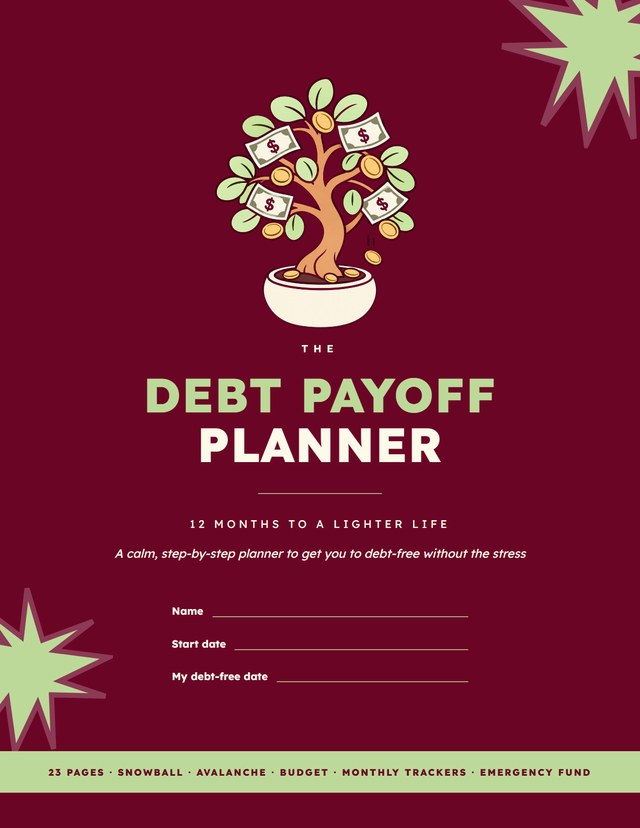
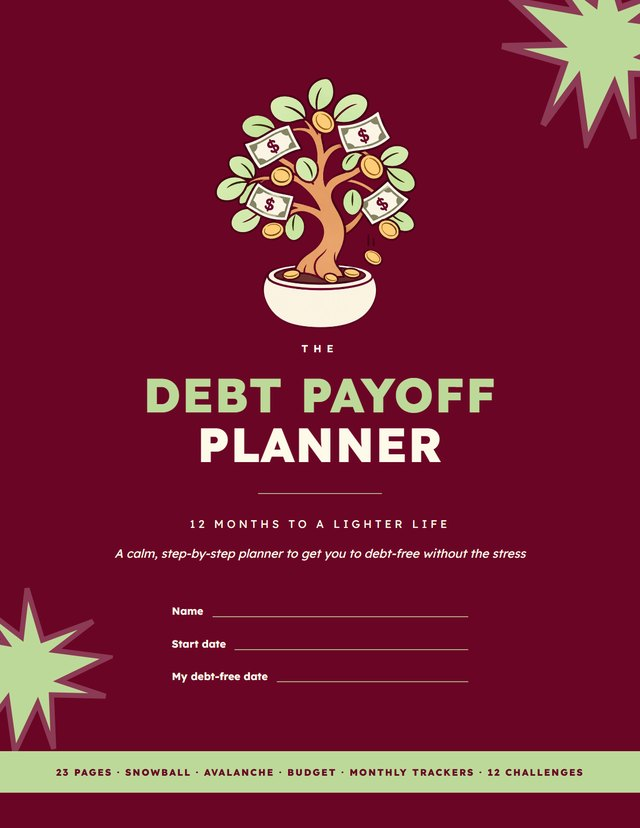
New texts: wheel report and PDF, planner previews, Q&A accordion

Changed region(s): [[0.0625, 0.9058, 0.9375, 0.936]]

diff --git a/js/wheel-report.js b/js/wheel-report.js
@@ -9,26 +9,26 @@
 
   var D = {
     en: {
-      health: {means: "Energy, sleep, movement and how you eat. When this area is low, every other area gets harder.", actions: ["Go to bed at the same time for 7 nights.", "Add a 20-minute walk three days this week.", "Plan tomorrow's meals tonight."], low: "Start with sleep: it is the cheapest fix with the biggest effect.", mid: "Pick one habit (water, steps, bedtime) and track it daily.", high: "Protect your routine on busy weeks; everything else rests on it."},
-      career: {means: "Your work, growth and sense of progress. A low score usually means feeling stuck, not hating the job.", actions: ["Describe your work at 10/10 in one paragraph.", "Pick one skill to grow this quarter.", "Talk to someone about your next step."], low: "Separate what you can change now from what needs a bigger move.", mid: "Set one 90-day goal with a clear finish line.", high: "Share what you know: mentoring keeps this area strong."},
-      finances: {means: "How in control you feel of money: debts, savings, spending. A low score is usually about uncertainty, not income.", actions: ["List every debt: balance, rate, minimum.", "Write a simple monthly budget.", "Start a tiny emergency fund, even $5 a week."], low: "Clarity first: seeing your exact numbers lowers stress on its own.", mid: "Pick one payoff method and automate one payment.", high: "Grow your cushion to 3 to 6 months of expenses and set a new goal."},
-      hobbies: {means: "The things you do just because you love them. They refill the energy the other areas use up.", actions: ["List 5 things you loved doing as a kid.", "Block one hour this week for one of them.", "Try one free class, video or local group."], low: "Treat fun as an appointment, not a reward for later.", mid: "Keep one hobby going weekly so it becomes a habit.", high: "Share it: a hobby with friends counts twice."},
-      growth: {means: "Learning, confidence and becoming who you want to be.", actions: ["Give a book or course 15 minutes a day.", "Write down 3 things you did well this week.", "Pick one small fear and do it once."], low: "Small daily progress beats big plans you never start.", mid: "Track one learning habit for 30 days.", high: "Set a stretch goal that scares you a little."},
-      relationships: {means: "Your partner and friends: how connected and supported you feel.", actions: ["Message two people you miss today.", "Plan one evening together with no phones.", "Ask someone close how you can do better."], low: "Reach out first: most people are waiting for someone else to.", mid: "Put regular time with your people in the calendar.", high: "Be the one who brings people together."},
-      recreation: {means: "Rest and recovery: time off, trips, real breaks.", actions: ["Keep one fully free evening this week.", "Plan a day trip or small treat this month.", "Turn off work notifications after a set hour."], low: "Rest is not a reward for finishing everything: schedule it first.", mid: "Plan your next real break now, even a short one.", high: "Keep your boundaries when life speeds up."},
-      spirituality: {means: "Inner calm, meaning and values, whatever that means for you.", actions: ["Take 5 quiet minutes each morning.", "Write your top 3 values and test one choice.", "Spend time in nature this week."], low: "Start with five quiet minutes a day: consistency beats length.", mid: "Link a daily practice to something you already do, like morning coffee.", high: "Use this calm as an anchor for the shakier areas."},
-      family: {means: "Your relationships with parents, siblings and children.", actions: ["Plan one shared meal or call this week.", "Start a shared family calendar.", "Ask what would make living together nicer."], low: "One small ritual, like a Sunday call, rebuilds closeness.", mid: "Plan family time ahead instead of fitting it in.", high: "Share the load so home stays good for everyone."}
+      health: {means: "Energy, sleep, movement and food. When this area dips, every other area takes more effort.", actions: ["Get up at the same time for 7 days, weekends too.", "Get 10 minutes of daylight within an hour of waking.", "Walk for 10 minutes after your biggest meal."], low: "Fix your wake-up time first, not your bedtime: a steady morning pulls your evenings into place in about a week.", mid: "Keep a minimum version for bad days: 10 minutes of walking still counts and keeps the habit alive.", high: "Book your workouts like meetings before a busy week: a slot in the calendar outlasts good intentions."},
+      career: {means: "Your work, income and growth. A low score usually means feeling stuck, not a bad job: you have lost sight of where you are growing.", actions: ["List the skills from 3 job ads you would love to land.", "For a week, mark each task: gives energy or drains it.", "Update your CV, even if you are not job hunting."], low: "Tell tiredness from a dead end: if work feels good again after a holiday, you need rest, not a new job.", mid: "Pick one skill from those job ads and one 90-day goal you can show: a project, a course, a new line on your CV.", high: "Write results down as they happen: in six months, when you ask for a raise, you will not remember them."},
+      finances: {means: "How in control you feel of money. A low score is often about avoiding the numbers, not about income: a sum you have not looked at feels bigger than the real one.", actions: ["List every debt: balance, rate, minimum.", "Track one week of spending without changing anything.", "Set an automatic $10 transfer to savings on payday."], low: "Name the number: worry without a figure always feels bigger than it is.", mid: "Use the 48-hour rule: wait two days before any non-essential buy over $50. If you still want it, it is a real want.", high: "Give your money its next job: a cushion of 3 to 6 months of expenses, then one long-term goal."},
+      hobbies: {means: "The things you do just because you enjoy them. They refill the energy that work and duties use up.", actions: ["List 5 things you loved doing at age 10.", "Book one hour this week for one of them.", "Play a video tutorial for one and follow along."], low: "Treat fun as an appointment, not a reward for later: 'when everything is done' never comes.", mid: "Join a class or a group: a hobby shared with people survives busy weeks much better.", high: "Give it a small finish line: a finished piece, a show, a race. A project keeps a hobby exciting."},
+      growth: {means: "Learning, confidence and becoming who you want to be.", actions: ["Read 10 pages a day: that is about 12 books a year.", "Pick one skill and take a free first lesson this week.", "Do one thing this week that scares you a little."], low: "Start so small you cannot say no: one page, one lesson, two minutes. Showing up matters more than the amount.", mid: "Learn out loud: once a week, tell someone what you learned. Explaining it is what makes it stick.", high: "Pick a stretch goal and find someone who is already there to ask for advice."},
+      relationships: {means: "Your partner and friends: how connected and supported you feel.", actions: ["Text two people you miss: 'Thought of you today.'", "Plan one evening together, phones in another room.", "Ask: 'What would make your week easier?'"], low: "Reach out first: studies show people value a simple 'thinking of you' message far more than the sender expects.", mid: "Notice small bids for attention: a 'look at this', a sigh, a question. Turning toward them keeps people close more than big gestures do.", high: "Be the one who gathers people: one simple dinner or walk a month keeps a circle alive."},
+      recreation: {means: "Rest and recovery: evenings off, weekends, trips, real breaks.", actions: ["Keep one evening this week completely free.", "Plan a small trip: the waiting itself lifts your mood.", "End work by listing tomorrow's top 3 tasks."], low: "Put rest in the calendar first and fit tasks around it: rest is what makes the work possible.", mid: "Real rest is a change, not just a stop: if you sit all day, move; if you talk all day, be quiet.", high: "Guard your boundaries when life speeds up: that is exactly when rest gets cut first."},
+      spirituality: {means: "Inner calm, meaning and values, whatever that means for you.", actions: ["Drink your morning coffee in quiet, with no phone.", "Name your top 3 values and test one choice on them.", "Take a 15-minute walk looking for something beautiful."], low: "Five quiet minutes a day beat one long retreat a year: it is the regularity that calms you.", mid: "Before bed, write three good things from the day and why they happened. A week is enough to feel the difference.", high: "Use this calm as an anchor: before a hard decision, ask what the calm version of you would do."},
+      family: {means: "Your relationships with parents, siblings and children.", actions: ["Have one meal together, phones in a basket.", "Play a board game together one evening.", "Call your parents just to chat, no reason needed."], low: "One small ritual, like a Sunday call, rebuilds closeness faster than one big gesture.", mid: "Try a 15-minute family meeting once a week: plans, one problem, one thank-you from each person.", high: "Share the invisible work too: remembering and planning are tasks, not just the doing."}
     },
     ru: {
-      health: {means: "Энергия, сон, движение и питание. Когда здесь проседает, всё остальное даётся тяжелее.", actions: ["Ложитесь спать в одно время 7 дней подряд.", "Гуляйте по 20 минут три дня на этой неделе.", "Вечером набросайте меню на завтра."], low: "Начните со сна: это самый простой шаг с самым большим эффектом.", mid: "Выберите одну привычку (вода, шаги, отбой) и отмечайте её каждый день.", high: "Берегите режим в загруженные недели: на нём держится всё остальное."},
-      career: {means: "Работа, рост и ощущение движения вперёд. Низкая оценка чаще говорит о чувстве застоя, а не о самой работе.", actions: ["Опишите одним абзацем работу на 10 из 10.", "Выберите один навык на этот квартал.", "Обсудите свой следующий шаг с наставником."], low: "Разделите, что можно изменить уже сейчас, а что требует большого шага.", mid: "Поставьте одну цель на 90 дней с понятным финишем.", high: "Делитесь опытом: наставничество держит эту сферу сильной."},
-      finances: {means: "Насколько вы управляете деньгами: долги, накопления, траты. Низкая оценка чаще про неопределённость, чем про маленький доход.", actions: ["Выпишите долги: остаток, ставку, платёж.", "Составьте простой бюджет на месяц.", "Отложите на подушку хотя бы 500 руб. в неделю."], low: "Сначала ясность: когда видишь точные цифры, тревоги становится меньше.", mid: "Выберите метод погашения и настройте автоплатёж.", high: "Доведите подушку до 3–6 месяцев расходов и поставьте новую цель."},
-      hobbies: {means: "То, что вы делаете просто ради удовольствия. Хобби восполняет энергию, которую забирают другие сферы.", actions: ["Вспомните 5 любимых занятий из детства.", "Выделите на одно из них час на этой неделе.", "Попробуйте бесплатный урок или встречу."], low: "Относитесь к радости как к встрече в календаре, а не к награде «потом».", mid: "Оставьте одно хобби раз в неделю, чтобы оно стало привычкой.", high: "Делитесь им: хобби с друзьями радует вдвойне."},
-      growth: {means: "Обучение, уверенность в себе и движение к тому, кем вы хотите быть.", actions: ["Уделяйте книге или курсу 15 минут в день.", "Запишите 3 вещи, которые получились за неделю.", "Сделайте один раз то, чего слегка боитесь."], low: "Маленький шаг каждый день лучше больших планов, которые не начинаются.", mid: "Отмечайте одну привычку обучения 30 дней подряд.", high: "Поставьте цель на вырост, от которой немного страшно."},
-      relationships: {means: "Партнёр и друзья: насколько вы чувствуете близость и поддержку.", actions: ["Напишите двум людям, по которым скучаете.", "Запланируйте вечер вместе без телефонов.", "Спросите близкого, что можно делать лучше."], low: "Сделайте первый шаг: многие тоже ждут, что напишут им.", mid: "Внесите встречи с близкими в календарь регулярно.", high: "Будьте тем, кто собирает людей вместе."},
-      recreation: {means: "Отдых и восстановление: выходные, поездки, настоящие перерывы.", actions: ["Выделите один свободный вечер на неделе.", "Запланируйте поездку на день или радость.", "Отключайте рабочие уведомления вечером."], low: "Отдых не награда за то, что всё сделано: ставьте его в план первым.", mid: "Запланируйте следующий настоящий отдых уже сейчас, пусть даже короткий.", high: "Сохраняйте свои границы, даже когда жизнь ускоряется."},
-      spirituality: {means: "Внутреннее спокойствие, смысл и ценности, что бы это ни значило для вас.", actions: ["Каждое утро 5 минут тишины.", "Запишите 3 главные ценности и сверьте решение.", "Проведите время на природе на этой неделе."], low: "Начните с пяти минут тишины в день: важнее регулярность, чем длительность.", mid: "Привяжите практику к тому, что вы и так делаете, например к утреннему кофе.", high: "Опирайтесь на это спокойствие там, где пока шатко."},
-      family: {means: "Отношения с родителями, братьями, сёстрами и детьми.", actions: ["Запланируйте общий ужин или звонок.", "Заведите общий семейный календарь.", "Спросите родных, как сделать жизнь вместе приятнее."], low: "Один маленький ритуал, например звонок по воскресеньям, возвращает близость.", mid: "Планируйте семейное время заранее, а не по остаточному принципу.", high: "Делите нагрузку, чтобы дома было хорошо всем."}
+      health: {means: "Энергия, сон, движение и питание. Когда здесь проседает, всё остальное даётся тяжелее.", actions: ["Вставайте в одно время 7 дней, в выходные тоже.", "10 минут дневного света в первый час после подъёма.", "Гуляйте 10 минут после самой плотной еды за день."], low: "Начните со времени подъёма, а не отбоя: ровное утро само подтянет вечер примерно за неделю.", mid: "Заведите «минимальную версию» на плохие дни: 10 минут ходьбы тоже засчитываются и сохраняют привычку.", high: "Перед загруженной неделей ставьте тренировки в календарь, как встречи: так они держатся лучше, чем на одном желании."},
+      career: {means: "Работа, доход и рост. Низкая оценка чаще значит застой, а не плохую работу: вы перестали видеть, куда растёте.", actions: ["Выпишите навыки из 3 вакансий, которые вам нравятся.", "Неделю отмечайте задачи: заряжает или выжимает.", "Обновите резюме, даже если не ищете работу."], low: "Отличите усталость от тупика: если после отпуска работа снова в радость, нужен отдых, а не новая работа.", mid: "Возьмите один навык из тех вакансий и цель на 90 дней, которую можно показать: проект, курс, новая строка в резюме.", high: "Записывайте результаты сразу: через полгода, когда пойдёте просить повышение, вы их уже не вспомните."},
+      finances: {means: "Насколько вы управляете деньгами. Низкая оценка чаще про то, что страшно смотреть на цифры, а не про доход: сумма, которую вы не видели, кажется больше настоящей.", actions: ["Выпишите долги: остаток, ставку, платёж.", "Неделю записывайте траты, ничего не меняя.", "Автоперевод 500 руб. в копилку в день зарплаты."], low: "Назовите сумму: тревога без цифры всегда кажется больше, чем она есть.", mid: "Правило 48 часов: любую необязательную покупку дороже 3 000 руб. отложите на два дня. Если желание осталось, оно настоящее.", high: "Дайте деньгам следующую задачу: подушка на 3–6 месяцев расходов, потом одна большая цель."},
+      hobbies: {means: "То, что вы делаете просто ради удовольствия. Хобби восполняет энергию, которую забирают работа и обязанности.", actions: ["Вспомните 5 любимых занятий из детства.", "Выделите час на одно из них на этой неделе.", "Включите видеоурок по одному из них и повторяйте."], low: "Относитесь к радости как к встрече в календаре: «когда всё сделаю» не наступает никогда.", mid: "Найдите курс или группу: хобби с людьми гораздо лучше переживает загруженные недели.", high: "Дайте хобби маленький финиш: законченная работа, выступление, забег. Проект держит интерес."},
+      growth: {means: "Обучение, уверенность в себе и движение к тому, кем вы хотите быть.", actions: ["Читайте 10 страниц в день: это около 12 книг в год.", "Выберите один навык и пройдите первый бесплатный урок.", "Сделайте одно дело, от которого немного страшно."], low: "Начните так мало, что невозможно отказаться: одна страница, один урок, две минуты. Важнее прийти, чем сколько сделать.", mid: "Учитесь вслух: раз в неделю рассказывайте кому-то, что узнали. Объясняя, вы запоминаете.", high: "Поставьте цель на вырост и найдите человека, который уже там, чтобы спросить совета."},
+      relationships: {means: "Партнёр и друзья: насколько вы чувствуете близость и поддержку.", actions: ["Напишите двум людям: «Вспоминаю тебя, как ты?»", "Вечер вдвоём, телефоны в другой комнате.", "Спросите: «Что сделает твою неделю легче?»"], low: "Сделайте первый шаг: исследования показывают, что простое «думаю о тебе» радует человека намного сильнее, чем ожидает тот, кто пишет.", mid: "Замечайте маленькие «заявки» на внимание: «смотри!», вздох, вопрос. Ответ на них сближает сильнее больших жестов.", high: "Будьте тем, кто собирает людей: простой ужин или прогулка раз в месяц сохраняют круг."},
+      recreation: {means: "Отдых и восстановление: свободные вечера, выходные, поездки, настоящие перерывы.", actions: ["Оставьте один вечер на неделе полностью свободным.", "Запланируйте поездку: само ожидание радует.", "В конце дня запишите 3 дела на завтра — и всё."], low: "Ставьте отдых в план первым, а дела вокруг него: именно отдых делает работу возможной.", mid: "Настоящий отдых — это смена, а не остановка: сидели весь день — двигайтесь, говорили весь день — помолчите.", high: "Берегите границы, когда жизнь ускоряется: именно тогда отдых урезают первым."},
+      spirituality: {means: "Внутреннее спокойствие, смысл и ценности, что бы это ни значило для вас.", actions: ["Пейте утренний кофе в тишине, без телефона.", "Назовите 3 главные ценности и сверьте с ними решение.", "Прогулка 15 минут: ищите вокруг что-то красивое."], low: "Пять минут тишины каждый день лучше одного ретрита в год: успокаивает именно регулярность.", mid: "Перед сном запишите три хорошие вещи за день и почему они случились. Недели хватит, чтобы заметить разницу.", high: "Используйте это спокойствие как опору: перед трудным решением спросите себя, что сделала бы спокойная версия вас."},
+      family: {means: "Отношения с родителями, братьями, сёстрами и детьми.", actions: ["Общий ужин, телефоны в корзинке.", "Сыграйте всей семьёй в настольную игру вечером.", "Позвоните родителям просто так, без повода."], low: "Один маленький ритуал, например звонок по воскресеньям, возвращает близость быстрее большого жеста.", mid: "Попробуйте семейную встречу раз в неделю на 15 минут: планы, одна проблема, одно «спасибо» от каждого.", high: "Делите и невидимую работу: помнить и планировать — тоже задачи, а не только делать."}
     }
   };
 
@@ -48,13 +48,13 @@
       alsoTitle: "Also worth attention", alsoNote: "Coaches recommend one area at a time. Come back to these once your first step is a habit.", oneStep: "One step: ",
       growTitle: "Questions coaches ask", growSub: "The GROW model: Goal, Reality, Options, Will. Answer them in your head or on paper.",
       questions: function (n, s, nx) { return [["Goal", "What would a 10 in " + n + " look like for you? One sentence."], ["Reality", "Why is it a " + s + " and not lower? What is already working?"], ["Options", "What would move it from " + s + " to " + nx + "? List three ideas, even small ones."], ["Will", "Which one will you do this week, and when exactly?"]]; },
-      planTitle: "Your 30-day plan", plan: [["Week 1", "Answer the four questions and take the first small step."], ["Week 2", "Turn the step into a habit: same day, same time."], ["Week 3", "Add the second step and keep the first one going."], ["Week 4", "Retake the wheel and compare. Even +1 is real progress."]],
+      planTitle: "Your 30-day plan", plan: [["Week 1", "Answer the four questions above. Pick one step and decide exactly when you will do it. For example: 'Every evening before bed, I write down what I spent today.'"], ["Week 2", "Repeat that step on the same day and at the same time. Missed it once? No problem, just do not miss it twice in a row."], ["Week 3", "Add a second step from the list and keep doing the first one."], ["Week 4", "Take the wheel quiz on our website again and compare your scores. Even +1 point is a real result."]], pMore: "Planners and spreadsheets for money, budgeting, health, habits, study and relationships are on our website in the Planners section. Pick something for yourself, and let's be productive together!",
       allTitle: "All your areas",
       offerKicker: "Made for your focus area",
       offerFin: function (s) { return "Turn your " + s + " in Finances into a clear plan"; },
       offerOther: function (n) { return "A planner for " + n + " is on its way"; },
       offerOtherText: "Meanwhile, most people start with money: money stress touches every area of the wheel.",
-      offerList: ["A debt table: see every debt, its interest and what to pay each month", "A monthly budget: know where your money goes and what you can save", "Two proven ways to pay debt off, so you can pick the one that feels right", "A rainy-day fund tracker: colour in squares as you save, like a game", "A filled-in example and a 12-month plan, so you never wonder what to do next"],
+      offerList: ["A debt list that shows what each debt costs you every month", "A monthly budget: planned vs actual, with optional spending highlighted", "Snowball or avalanche: pick a method and your payoff order on one page", "A $1,000 emergency fund: 112 boxes to cross off as you save", "12 monthly pages, each with a small money challenge"],
       offerBtn: "Get the Debt Payoff Planner · $8", offerNote: "The PDF arrives right after payment · 23 pages · 3 colours to choose from", offerHref: "planners.html#planners",
       giftKicker: "Free for you", giftTitle: "Your wheel, ready to print", giftText: "3 beautiful pages: your wheel, your plan for the month and a 30-day tracker.",
       download: "Download my wheel (PDF)", startOver: "Start over",
@@ -81,13 +81,13 @@
       alsoTitle: "Тоже стоит внимания", alsoNote: "Коучи советуют работать с одной сферой за раз. Вернитесь к этим, когда первый шаг станет привычкой.", oneStep: "Один шаг: ",
       growTitle: "Вопросы, которые задают коучи", growSub: "Модель GROW: цель, реальность, варианты, действие. Ответьте мысленно или на бумаге.",
       questions: function (n, s, nx) { return [["Цель", "Какой была бы сфера «" + n + "» на 10 из 10? Одним предложением."], ["Реальность", "Почему сейчас " + s + ", а не меньше? Что уже работает?"], ["Варианты", "Что поднимет оценку с " + s + " до " + nx + "? Запишите три идеи, даже маленькие."], ["Действие", "Что из этого вы сделаете на этой неделе и когда именно?"]]; },
-      planTitle: "План на 30 дней", plan: [["Неделя 1", "Ответьте на четыре вопроса и сделайте первый маленький шаг."], ["Неделя 2", "Превратите шаг в привычку: тот же день, то же время."], ["Неделя 3", "Добавьте второй шаг и не бросайте первый."], ["Неделя 4", "Пройдите колесо заново и сравните. Даже +1 — это настоящий прогресс."]],
+      planTitle: "План на 30 дней", plan: [["Неделя 1", "Ответьте на четыре вопроса выше. Выберите один шаг и решите, когда точно его сделаете. Например: «Каждый вечер перед сном записываю траты за день»."], ["Неделя 2", "Повторяйте этот шаг в тот же день и в то же время. Пропустили один раз — ничего страшного, главное не пропускать два раза подряд."], ["Неделя 3", "Добавьте второй шаг из списка и продолжайте делать первый."], ["Неделя 4", "Пройдите колесо на нашем сайте ещё раз и сравните оценки. Даже +1 балл — это уже результат."]], pMore: "Планеры и таблицы для финансов, бюджета, здоровья, привычек, учёбы и отношений есть на нашем сайте в разделе «Планеры». Подберите что-то для себя, и давайте будем продуктивными вместе!",
       allTitle: "Все ваши сферы",
       offerKicker: "Создано для вашей сферы фокуса",
       offerFin: function (s) { return "Превратите свои " + s + " " + plural(s, "балл", "балла", "баллов") + " в «Финансах» в понятный план"; },
       offerOther: function (n) { return "Планер для сферы «" + n + "» уже в работе"; },
       offerOtherText: "А пока многие начинают с денег: финансовая тревога влияет на каждую сферу колеса.",
-      offerList: ["Таблица долгов: вы увидите все долги, проценты и сколько платить каждый месяц", "Бюджет на месяц: понятно, куда уходят деньги и сколько можно отложить", "Два проверенных способа гасить долги: выберите тот, что вам ближе", "Копилка на чёрный день: закрашивайте клеточки, когда откладываете, как в игре", "Пример заполнения и план на 12 месяцев, чтобы не гадать, что делать дальше"],
+      offerList: ["Таблица долгов: сколько каждый долг стоит вам каждый месяц", "Бюджет на месяц: план и факт, необязательные траты выделены цветом", "Снежный ком или лавина: метод и порядок выплат на одной странице", "Подушка 50 000 руб.: 112 клеток, которые вы зачёркиваете, когда откладываете", "12 страниц на месяцы, в каждой — небольшое денежное задание"],
       offerBtn: "Получить планер · 390 ₽", offerNote: "Файл придёт сразу после оплаты · 23 страницы · 3 цвета на выбор", offerHref: "planners.html#planners",
       giftKicker: "Подарок для вас", giftTitle: "Ваше колесо, готовое к печати", giftText: "3 красивые страницы: ваше колесо, план на месяц и трекер на 30 дней.",
       download: "Скачать моё колесо (PDF)", startOver: "Пройти заново",
@@ -130,7 +130,7 @@
       praiseTitle: "Вы *молодец*, и вот почему",
       praiseIntro: function (l) { return "Ваш крепкий фундамент — " + l + ". Это не случайность, а результат ваших решений, усилий и заботы. Остановитесь на минуту и похвалите себя."; },
       praiseNone: function (l) { return "Вы честно посмотрели на свою жизнь, а это самый смелый первый шаг. Ваши самые сильные сферы сейчас — " + l + ": на них можно опираться."; },
-      balTitle: "Теперь — к *балансу*",
+      balTitle: "Теперь к *балансу*",
       balIntro: "Колесо едет ровно, только когда оно круглое. Эти сферы — не провал, а место, где вас ждёт самый большой рост. Даже +1–2 балла здесь сделают всю жизнь легче.",
       balNone: "Все сферы выше 5. Чтобы сохранить баланс, выберите самую низкую и поднимите её на балл в этом месяце.",
       how: "С чего начать", and: " и ",
@@ -360,13 +360,24 @@
           else { doc.setFillColor.apply(doc, WHITE); doc.setDrawColor.apply(doc, color); doc.circle(cx, cy, size * .17, "FD"); }
         }
       }
+      function segbar(x, by, n) {
+        var sw = 16, sh = 6, gap = 3;
+        for (var k = 0; k < 10; k++) {
+          var sx = x + k * (sw + gap);
+          if (k < n) { doc.setFillColor.apply(doc, INK); doc.rect(sx, by, sw, sh, "F"); }
+          else { doc.setDrawColor.apply(doc, INK); doc.setLineWidth(1.2); doc.rect(sx + .6, by + .6, sw - 1.2, sh - 1.2, "S"); }
+        }
+      }
       function heading(t, kick) { ensure(60); if (kick) { kicker(kick, M, y, ACCD); y += 16; } y = txt(plain(t), M, y + 6, 18, "h", INK, CW) + 4; }
       var date = new Date().toLocaleDateString(T.locale, {year: "numeric", month: "long", day: "numeric"});
       var strong = W.strong, weak = W.weak, praiseSet = strong.length ? strong : W.areas.map(function (a, i) { return i; }).sort(function (p, q) { return W.scores[q] - W.scores[p]; }).slice(0, 2);
       /* page 1 */
       paintBg(); y = TOP;
       txt(T.pTitle, M, 66, 30, "h", INK); txt(T.pSub, M, 90, 12, "hi", MUTED); txt(date, M, 108, 9, "n", MUTED);
-      card(PW - M - 124, 40, 124, 70, SURF); kicker(T.balance, PW - M - 110, 60, ACCD); txt(num(W.avg), PW - M - 110, 98, 30, "h", INK); txt("/ 10", PW - M - 52, 98, 11, "n", MUTED);
+      var bx = PW - M - 140; card(bx, 40, 140, 74, WHITE, LINE); doc.setFillColor.apply(doc, INK); doc.rect(bx, 40, 140, 2.5, "F");
+      kicker(T.balance, bx + 16, 62, INK);
+      var nk = font("h"); doc.setFontSize(30 * nk); var nw = doc.getTextWidth(num(W.avg));
+      txt(num(W.avg), bx + 16, 100, 30, "h", INK); txt("/ 10", bx + 16 + nw + 6, 100, 11, "b", MUTED);
       if (png) doc.addImage(png, "JPEG", M, 134, 252, 252);
       var px = M + 270, pw = CW - 270, py = 134;
       function listPanel(title, idx, fill, tc) {
@@ -389,7 +400,7 @@
         var pair = shown.slice(r, r + 2), rh = 0;
         pair.forEach(function (i) { rh = Math.max(rh, hgt(PR[W.areas[i].key], 9.5, "n", cw2 - 30)); }); rh += 46;
         ensure(rh + 12);
-        pair.forEach(function (i, k) { var a = W.areas[i], c = hex(a.color), cx = M + k * (cw2 + 14); card(cx, y, cw2, rh, SURF2); doc.setFillColor.apply(doc, c); doc.rect(cx, y, cw2, 4, "F"); txt(a.name, cx + 15, y + 26, 11, "h", INK); txt(PR[a.key], cx + 15, y + 42, 9.5, "n", MUTED, cw2 - 30); });
+        pair.forEach(function (i, k) { var a = W.areas[i], c = hex(a.color), cx = M + k * (cw2 + 14); card(cx, y, cw2, rh, WHITE, LINE); doc.setFillColor.apply(doc, INK); doc.rect(cx, y, cw2, 2.5, "F"); txt(a.name, cx + 15, y + 26, 11, "h", INK); txt(PR[a.key], cx + 15, y + 42, 9.5, "n", MUTED, cw2 - 30); });
         y += rh + 12;
       }
       /* balance */
@@ -402,11 +413,11 @@
         d.actions.forEach(function (x) { rightH += Math.max(hgt(x, 9.5, "n", rw - 20), 16) + 3; });
         var tipT = d[W.lvl(W.scores[i])]; rightH += 4 + hgt(tipT, 8.5, "n", rw);
         var h = Math.max(leftH, rightH) + 12; ensure(h + 12);
-        card(M, y, CW, h, WHITE, LINE); doc.setFillColor.apply(doc, c); doc.rect(M, y, 5, h, "F");
-        flowers(M + 20, y + 18, 13, W.scores[i], c);
+        card(M, y, CW, h, WHITE, LINE);
+        segbar(M + 20, y + 20, W.scores[i]);
         txt(a.name, M + 20, y + 50, 12, "h", INK, lw2); txt(d.means, M + 20, y + 66, 9.5, "n", MUTED, lw2);
-        kicker(U.how, rx, y + 24, ACCD); var sy = y + 40;
-        d.actions.forEach(function (x) { doc.setDrawColor.apply(doc, c); doc.setLineWidth(1.3); doc.rect(rx, sy - 8, 10, 10, "S"); var e = txt(x, rx + 18, sy, 9.5, "n", INK, rw - 20); sy = Math.max(e, sy + 16) + 3; });
+        var hk = font("h"); doc.setFontSize(8.5 * hk); doc.setCharSpace(0.6); doc.setTextColor.apply(doc, INK); doc.text(U.how.toUpperCase(), rx, y + 24); doc.setCharSpace(0); var sy = y + 40;
+        d.actions.forEach(function (x) { doc.setDrawColor.apply(doc, INK); doc.setLineWidth(1.1); doc.rect(rx, sy - 8, 10, 10, "S"); var e = txt(x, rx + 18, sy, 9.5, "n", INK, rw - 20); sy = Math.max(e, sy + 16) + 3; });
         txt(tipT, rx, sy + 4, 8.5, "n", MUTED, rw);
         y += h + 12;
       });
@@ -416,7 +427,7 @@
       var gw = (CW - 14) / 2, gh = 104;
       for (var gr = 0; gr < 4; gr += 2) {
         ensure(gh + 14);
-        [0, 1].forEach(function (k) { var q = W.questions[gr + k], gx = M + k * (gw + 14); card(gx, y, gw, gh, WHITE, LINE); doc.setFillColor.apply(doc, SURF); doc.rect(gx, y, 28, 28, "F"); txt(q[0].charAt(0), gx + 14, y + 20, 14, "h", INK, null, "center"); txt(q[0].toUpperCase(), gx + 38, y + 17, 8, "b", ACCD); var qe = txt(q[1], gx + 38, y + 30, 9.5, "n", INK, gw - 52); doc.setDrawColor(222, 196, 208); doc.setLineWidth(.6); for (var l = Math.max(qe + 10, y + 62); l < y + gh - 6; l += 18) doc.line(gx + 14, l, gx + gw - 14, l); });
+        [0, 1].forEach(function (k) { var q = W.questions[gr + k], gx = M + k * (gw + 14); card(gx, y, gw, gh, WHITE, LINE); doc.setFillColor.apply(doc, SURF); doc.rect(gx, y, 28, 28, "F"); txt(q[0].charAt(0), gx + 14, y + 20, 14, "h", INK, null, "center"); txt(q[0].toUpperCase(), gx + 38, y + 17, 8, "b", INK); var qe = txt(q[1], gx + 38, y + 30, 9.5, "n", INK, gw - 52); doc.setDrawColor(222, 196, 208); doc.setLineWidth(.6); for (var l = Math.max(qe + 10, y + 62); l < y + gh - 6; l += 18) doc.line(gx + 14, l, gx + gw - 14, l); });
         y += gh + 14;
       }
       /* 30 days */
@@ -425,17 +436,9 @@
       var tcols = [SURF2, SURF, SURF2, SURF];
       W.plan.forEach(function (p, i) { var tx = M + i * (tw + 10); card(tx, y, tw, th, tcols[i]); txt(p[0], tx + 12, y + 26, 12, "h", INK); txt(p[1], tx + 12, y + 44, 9, "n", INK, tw - 24); doc.setDrawColor.apply(doc, INK); doc.setLineWidth(1); doc.rect(tx + tw - 24, y + 12, 11, 11, "S"); });
       y += th + 18;
-      /* offer */
-      var ot = plain(U.offT), bl = T.offerList.map(function (x) { return "• " + x; }), blH = 0;
-      bl.forEach(function (x) { blH += hgt(x, 9.5, "n", CW - 44) + 3; });
-      var oh2 = 28 + hgt(ot, 13, "h", CW - 44) + hgt(U.offP, 9.5, "n", CW - 44) + 18 + blH + 14;
-      ensure(oh2 + 10);
-      card(M, y, CW, oh2, INK); kicker(U.offK, M + 22, y + 22, SURF);
-      var oy = txt(ot, M + 22, y + 42, 13, "h", WHITE, CW - 44);
-      oy = txt(U.offP, M + 22, oy + 2, 9.5, "n", [243, 213, 225], CW - 44);
-      oy = txt(U.offAvail, M + 22, oy + 8, 9.5, "b", SURF, CW - 44);
-      bl.forEach(function (x) { oy = txt(x, M + 22, oy + 3, 9.5, "n", [243, 213, 225], CW - 44); });
-      y += oh2 + 14;
+      /* more planners */
+      var mh2 = hgt(T.pMore, 11, "b", CW); ensure(mh2 + 20);
+      y = txt(T.pMore, M, y + 4, 11, "b", INK, CW) + 18;
       /* notes + disclaimer */
       font("n"); doc.setFontSize(7.5); var dExtra = (doc.splitTextToSize(T.disclaimer, CW).length - 1) * 10;
       var nh = BOT - 22 - dExtra - y;

diff --git a/planners.html b/planners.html
@@ -293,6 +293,21 @@ footer .ft{padding-bottom:56px}
 .lang i{font-style:normal;color:var(--ink-3)}
 .lang a{color:var(--ink-3);text-decoration:none;font-weight:700}
 .lang a:hover{color:var(--acc-dark)}
+
+/* Q&A accordion */
+.qa h2{font-family:'Unbounded','Jost',Arial,sans-serif;font-size:26px;font-weight:700;margin-bottom:26px}
+.qa-i{border-bottom:1px solid #E9C9D8;background:transparent}
+.qa-i:first-of-type{border-top:1px solid #E9C9D8}
+.qa-i summary{list-style:none;cursor:pointer;display:flex;align-items:center;justify-content:space-between;gap:20px;padding:22px 4px}
+.qa-i summary::-webkit-details-marker{display:none}
+.qa-i summary h4{margin:0 !important;font-size:18px;font-weight:700;line-height:1.35}
+.qa-i summary:hover h4{color:var(--acc-dark)}
+.qa-i summary i{flex:none;position:relative;width:16px;height:16px}
+.qa-i summary i::before,.qa-i summary i::after{content:"";position:absolute;left:0;top:7px;width:16px;height:2px;background:var(--ink);transition:transform .25s ease}
+.qa-i summary i::after{transform:rotate(90deg)}
+.qa-i[open] summary i::after{transform:rotate(0)}
+.qa-i p{margin:0;padding:0 40px 24px 4px;color:var(--ink-2)}
+.qa-i summary:focus-visible{outline:2px solid var(--acc);outline-offset:2px}
 </style>
 </head>
 <body>
@@ -339,13 +354,13 @@ footer .ft{padding-bottom:56px}
         <div class="descr">
           <p>What's inside:</p>
           <ol>
-            <li>a debt list with monthly interest and a filled-in example;</li>
-            <li>a monthly budget with ready categories, planned vs actual;</li>
-            <li>2 effective debt payoff methods;</li>
-            <li>build your emergency fund with a fun savings tracker;</li>
-            <li>23 pages: plan your next 12 months.</li>
+            <li>a debt list that shows what each debt costs you per month, with a filled-in example;</li>
+            <li>a monthly budget: planned vs actual, optional spending highlighted;</li>
+            <li>snowball or avalanche: choose a method and your payoff order;</li>
+            <li>a $1,000 emergency fund tracker with 112 boxes to cross off;</li>
+            <li>12 monthly pages, each with a small money challenge.</li>
           </ol>
-          <p>Spend a few minutes a week and watch your debt go down ♥</p>
+          <p>20 minutes a week, and you watch your debt go down ♥</p>
           <p>Right after payment you get a link to download the PDF. 23 pages, US Letter and A4.</p>
         </div>
           <div class="actions"><a class="buy" href="#" data-buy>Buy for $8</a></div>
@@ -372,14 +387,11 @@ footer .ft{padding-bottom:56px}
 
   <section class="qa" id="qa">
     <h2>Q&amp;A</h2>
-    <h4>Where is my product after I pay?</h4>
-    <p>Already with you.<br>Right after payment you get a link to download the PDF files.<br>Download → print or open on a tablet → that's it, you are set.</p>
-    <h4>Do I need to install anything?</h4>
-    <p>Nope. No apps, no installs.<br>A PDF opens on any phone or computer. To write on it, use any PDF app, for example GoodNotes or Notability.</p>
-    <h4>Does it work on a phone?</h4>
-    <p>Yes 📱<br>You can open the PDF on your phone to check your plan on the go.<br>For writing, a printed copy or a tablet is more comfortable.</p>
-    <h4>What if I lost the link?</h4>
-    <p>Check the email receipt from the payment service: the link is there.<br>If you still can't find it, write to us at <a href="mailto:support.my365plan@gmail.com">support.my365plan@gmail.com</a> from the email you paid with.</p>
+    <details class="qa-i"><summary><h4>Where is my product after I pay?</h4><i aria-hidden="true"></i></summary><p>Already with you.<br>Right after payment you get a link to download the PDF files.<br>Download → print or open on a tablet → that's it, you are set.</p></details>
+    <details class="qa-i"><summary><h4>How do I use the planner: print it or fill it in on a tablet?</h4><i aria-hidden="true"></i></summary><p>Either way works.<br>To print: open the US Letter or A4 file and print at 100% scale. Any home printer is fine.<br>On a tablet: open the PDF in GoodNotes, Notability or any PDF app and write with a stylus or your finger.<br>You can print pages as many times as you like, for example to start a month over.</p></details>
+    <details class="qa-i"><summary><h4>Do I need to install anything?</h4><i aria-hidden="true"></i></summary><p>Nope. No apps, no installs.<br>A PDF opens on any phone or computer. To write on it, use any PDF app, for example GoodNotes or Notability.</p></details>
+    <details class="qa-i"><summary><h4>Does it work on a phone?</h4><i aria-hidden="true"></i></summary><p>Yes 📱<br>You can open the PDF on your phone to check your plan on the go.<br>For writing, a printed copy or a tablet is more comfortable.</p></details>
+    <details class="qa-i"><summary><h4>What if I lost the link?</h4><i aria-hidden="true"></i></summary><p>Check the email receipt from the payment service: the link is there.<br>If you still can't find it, write to us at <a href="mailto:support.my365plan@gmail.com">support.my365plan@gmail.com</a> from the email you paid with.</p></details>
   </section>
 </div>
 
@@ -408,11 +420,11 @@ footer .ft{padding-bottom:56px}
       </div>
       <p><b>What's inside:</b></p>
       <ol>
-        <li>a debt list with monthly interest and a filled-in example;</li>
-        <li>a monthly budget with ready categories, planned vs actual;</li>
-        <li>2 effective debt payoff methods;</li>
-        <li>build your emergency fund with a fun savings tracker;</li>
-        <li>23 pages: plan your next 12 months.</li>
+        <li>a debt list that shows what each debt costs you per month, with a filled-in example;</li>
+        <li>a monthly budget: planned vs actual, optional spending highlighted;</li>
+        <li>snowball or avalanche: choose a method and your payoff order;</li>
+        <li>a $1,000 emergency fund tracker with 112 boxes to cross off;</li>
+        <li>12 monthly pages, each with a small money challenge.</li>
       </ol>
       <p class="pm-note">Instant PDF download right after payment. 23 pages, US Letter and A4.</p>
       <a class="buy" href="#" data-buy>Buy for $8</a>

diff --git a/index.html b/index.html
@@ -559,6 +559,7 @@ footer .ft{padding-bottom:56px}
 .lang i{font-style:normal;color:var(--ink-3)}
 .lang a{color:var(--ink-3);text-decoration:none;font-weight:700}
 .lang a:hover{color:var(--acc-dark)}
+.wq-lead{margin:10px 0 0;font-size:17px;line-height:1.45;color:var(--ink-2);max-width:34ch}
 </style>
 </head>
 <body>
@@ -576,8 +577,9 @@ footer .ft{padding-bottom:56px}
       <aside class="wq-side" aria-live="polite">
         <div class="wq-intro">
       <h1>How balanced is your life?</h1>
+      <p class="wq-lead">Colour in how developed each area of your life is, and get a personal plan with small steps for this week and a printable PDF at the very end.</p>
     </div>
-        <div id="wq-progress"><p class="wq-muted" id="wq-muted-hint">Click a ring: 1 in the centre, 10 at the edge.</p></div>
+        <div id="wq-progress"></div>
         <ol class="wq-list" id="wq-list"></ol>
         <a class="wq-btn wq-below" id="wq-below" href="#wq-report" hidden>See your results ↓</a>
         
